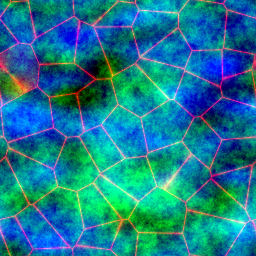
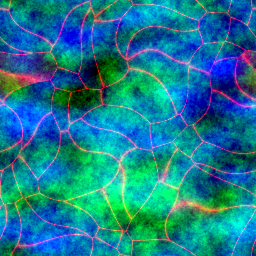
Curve receiver caustics and fit seabed brightness separately

diff --git a/tools/build_assets.py b/tools/build_assets.py
@@ -154,7 +154,8 @@ class Mesh:
         payload=struct.pack('<II',len(encoded),0x4e4f534a)+encoded+struct.pack('<II',len(binary),0x004e4942)+binary
         (OUT/f'{name}.glb').write_bytes(struct.pack('<III',0x46546c67,2,12+len(payload))+payload)
         sampler='scene_texture' if category=='blit' else 'caustics'
-        texture=f' textures {{ sampler: "{sampler}" texture: "/assets/generated/caustics.png" }}\n'
+        pattern_texture = 'surface_water.png' if category == 'surface' else 'caustics.png'
+        texture=f' textures {{ sampler: "{sampler}" texture: "/assets/generated/{pattern_texture}" }}\n'
         if category!='blit':texture+=' textures { sampler: "stone_detail" texture: "/assets/textures/limestone-v1.png" }\n'
         (OUT/f'{name}.model').write_text(f'mesh: "/assets/generated/{name}.glb"\nmaterials {{\n name: "reef"\n material: "/render/{category}.material"\n{texture}}}\n')
         # Visual offset keeps the physical swimming/camera anchor unchanged.
@@ -550,18 +551,27 @@ def main():
     fullscreen.quad((-1,-1,0),(1,-1,0),(1,1,0),(-1,1,0),(1,1,1))
     fullscreen.save('fullscreen','blit')
 
-    # Seamless cellular caustics. One shared texture, two scrolling samples per pixel.
+    # Receiver pattern only: curve cell boundaries by a seamless wave field.
+    # Preserve the old intensity distribution and the surface's entire texture,
+    # so this fitting pass does not retune brightness or change water appearance.
     rng=np.random.default_rng(73)
     yy,xx=np.mgrid[0:256,0:256]/256*7
-    nearest=np.full((256,256),1e6); second=nearest.copy()
-    for i in range(7):
-        for j in range(7):
-            px,py=i+rng.random(),j+rng.random()
-            dx=np.abs(xx-px);dx=np.minimum(dx,7-dx)
-            dy=np.abs(yy-py);dy=np.minimum(dy,7-dy)
+    sites=[(i+rng.random(),j+rng.random()) for i in range(7) for j in range(7)]
+    def receiver_pattern(x,y):
+        nearest=np.full((256,256),1e6);second=nearest.copy()
+        for px,py in sites:
+            dx=np.abs(x-px);dx=np.minimum(dx,7-dx)
+            dy=np.abs(y-py);dy=np.minimum(dy,7-dy)
             d=dx*dx+dy*dy
             second=np.minimum(second,np.maximum(nearest,d));nearest=np.minimum(nearest,d)
-    intensity=np.exp(-(np.sqrt(second)-np.sqrt(nearest))*29)
+        return np.exp(-(np.sqrt(second)-np.sqrt(nearest))*29)
+    surface_pattern=receiver_pattern(xx,yy)
+    u,v=xx/7,yy/7
+    wave_x=.38*np.sin(math.tau*(2*u+v)+.8)+.18*np.sin(math.tau*(3*v-u)+1.6)
+    wave_y=.34*np.sin(math.tau*(u-2*v)-.6)+.14*np.sin(math.tau*(3*u+v)+2.3)
+    curved=receiver_pattern((xx+wave_x)%7,(yy+wave_y)%7)
+    intensity=np.empty_like(curved)
+    intensity.ravel()[np.argsort(curved.ravel())]=np.sort(surface_pattern.ravel())
     from PIL import ImageFilter
     stone_rng=np.random.default_rng(841)
     def periodic_noise(power,stretch=1):
@@ -580,6 +590,7 @@ def main():
     water=np.fft.ifft2(np.fft.fft2(field)*band).real
     low,high=np.percentile(water,[1,99]);water=np.clip((water-low)/(high-low),0,1)
     Image.fromarray(np.uint8(np.clip(np.stack([intensity,stone,water],axis=-1),0,1)*255)).save(OUT/'caustics.png')
+    Image.fromarray(np.uint8(np.clip(np.stack([surface_pattern,stone,water],axis=-1),0,1)*255)).save(OUT/'surface_water.png')
 
     objects=[]; obstacles=[]
     placements=0

diff --git a/README.md b/README.md
@@ -8,11 +8,13 @@
 - All actors stay independent/shared-mesh instances, including fish, rays and vegetation. No actor baking or reference-image backdrop/projection. Static geometry and shaders must survive swimming/camera orbit.
 - README is agent memory, not user marketing. Maintain commands, current evidence, pitfalls and next work. User authorizes local Git commits. Preserve their commits/work.
 
-## Current checkpoint — native pass33, 2026-10-16
+## Current checkpoint — native pass38, 2026-10-16
 
-- Actual captures/metrics/diffs: `artifacts/progress/pass27` through `pass32`. Latest33 MAE12.0267%, SSIM.40318, exact-black.0007716%, within10/channel5.9167%. These are diagnostics, NOT a close match. Baseline4: MAE11.8649%, SSIM.48805, tolerance4.4477%; structural similarity is still worse than baseline.
+- Actual captures/metrics/diffs: `artifacts/progress/pass27` through `pass32`. Latest38 MAE11.8556%, SSIM.40600, exact-black.0007716%, within10/channel5.9165%. These are diagnostics, NOT a close match. Baseline4: MAE11.8649%, SSIM.48805, tolerance4.4477%; structural similarity is still worse than baseline.
 - Caustic-only passes27→30: gain.22→.66→1.20; then stone response.35 while sand stays1.20. Pattern size/color/motion unchanged. Constants `CAUSTIC_GAIN` and `STONE_CAUSTIC_RESPONSE` in underwater.fp.
 - Clear seabed sample at960analysis: pixels(581,443)-(614,516). Reference display-luminance p10/50/90=.4409/.5377/.6604. Gain.22=.4583/.4821/.5120; gain.66=.4611/.4927/.5757; gain1.20=.4613/.5002/.6529. This fits bright seabed caustics, not their shape/color or every receiving surface. Recheck after other lighting/material changes.
+- Caustic-shape-only33→34: seamless domain-warped receiver cells, same complete R intensity histogram; G stone/B waves unchanged. Surface gets its own pixel-identical old packed texture(surface_water.png), so the ceiling stays unchanged.34 MAE12.1108/SSIM.40172: curves look more natural but phase/coverage still mismatch.35 is an UNCHANGED repeat, not a brightness trial.
+- Brightness-only34→36: gain1.20→.90, stone response still.35.37 tested ONLY sand reflectance(.72 multiplier), projected caustics unchanged. It made two patches too dark.38 uses.90 sand reflectance as a compromise measured across multiple shared floor patches(artifacts/progress/pass38/caustic-brightness.json). Patches still disagree: spatial lighting/pattern position cannot be fixed by a single gain. These are encoded display-luminance diagnostics, not radiance. Shape/coverage/color still differ.
 - Sea-color-only passes30→32: bottom/view-ray fog RGB(.050,.49,.86), top(.065,.61,1.0); density remains.016. Same fog function for background and objects. No camera/geometry/caustic changes.
 - Clear middle water box[x.495,y.37,x2.52,y2.42]: reference medianRGB(.1137,.6118,.9373), pass30(.0980,.5255,.7882), pass32(.1137,.6078,.9412). Upper box[.51,.17,.55,.23]: reference(.1922,.6863,.9686),32(.1804,.6824,.9490). Middle now within1 RGB level/channel, upper within5. These local results are not whole-image fidelity; patches still differ in gradients/texture.
 - Mermaid-position-only pass32→33: model component local offset(.20,-.22,0), maintained by generator. Physical spawn, camera, geometry, pose and lighting unchanged; head/body shift slightly right/down toward reference. Tail shape still wrong.
@@ -55,7 +57,7 @@ python3 tools/build_assets.py
 - Deterministic seed73, Y-up meters, forward -Z. Emits shared GLBs/.model/.go, world.collection, obstacles.lua, manifest.json and named landmarks. Current counts in manifest; limits2048model/GO instances.
 - `assets/source/mermaid.blend`: editable current mesh. Raw/finished GLBs + signature cache alongside. `tools/finish_character.py` unions skin(.018voxel), smooths3, decimates.55, rejoins untouched hair/fins/clothing with UV/material IDs. `build_assets.py` runs Blender only if raw mesh/script changes; otherwise copies cached finishedGLB. No armature yet; swimming/hair/tail deformation is in the vertex shader.
 - Mermaid vertex alpha encodes skin0,tail.25,fluke.5,hair.75,garment1; preserve these IDs and active vertex colors when editing/exporting. Normal fragment alpha is ALWAYS1, not the ID.
-- `assets/source/ruins.blend`: column/arch/ring arranged side-by-side for editing. `tools/finish_ruins.py` welds, physically erodes.024, bevels.045/2segments, weighted normals, slight mottling; exports BEFORE display offsets. Finished triangles column5899/arch4626/ring4290. Cached raw/finishedGLBs/signature.
+- `assets/source/ruins.blend`: column/arch/ring arranged side-by-side for editing. `tools/finish_ruins.py` welds, physically erodes.024, bevels.045/2segments, weighted normals, slight mottling; exports BEFORE display offsets. Finished triangles column5912/arch4626/ring4290. Cached raw/finishedGLBs/signature.
 - Manual Blender edits must export back to the relevant `*-finished.glb`, material `reef`, active vertex color/normals/UVs. For ruins export one object at a time with location reset to0(display offsets are not world placement). Cache uses raw generator/script signature: unchanged generation copies that finished file. Changing raw generator/script regenerates and replaces manual finished mesh, so preserve manual source revisions first.
 - Limestone bitmap/provenance is in assets/textures; reused only this asset from a rejected pass. No old palette fitting/prepass returned. Shared packed caustics texture R=receiving caustics,G=stone noise,B=water wave field.
 
